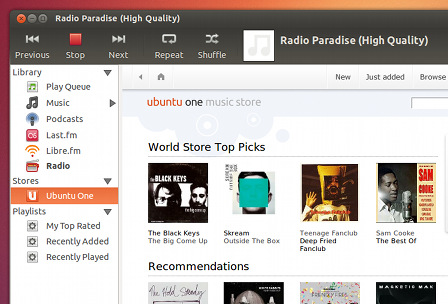
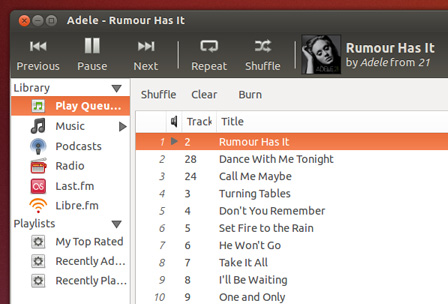
- Add updated music slide.   - Add Raring Ringtail welcome graphic.

diff --git a/slideshows/ubuntu/slides/music.html b/slideshows/ubuntu/slides/music.html
@@ -1,29 +1,26 @@
-<div class="header"><h1 class="slidetitle">All the music you need</h1></div>
+<div class="header"><h1 class="slidetitle">Take your music with you</h1></div>
 
 <div class="main">
 
 <div class="text">
 
 <div>
-<p>Ubuntu comes with Rhythmbox, for organising and playing your music. Compatible with all common portable music players, it includes the Ubuntu Music Store, so you can find new music in seconds.</p>
+<p>Ubuntu comes with the amazing Rhythmbox music player. With advanced playback options, it's simple to queue up the perfect songs. And it works great with CDs and portable music players, so you can enjoy all your music wherever you go.</p>
 </div>
 
 <div class="featured">
 <h2 class="subtitle">Included software</h2>
 <ul>
 	<li>
-	<img class="icon" src="icons/rhythmbox.png" />
+	<img class="icon" src="icons/rhythmbox.png">
 	<p class="caption">Rhythmbox Music Player</p>
-	</li>
-	<li>
-	<img class="icon" src="icons/ubuntuone.png" />
-	<p class="caption">Ubuntu One Music Store</p>
 	</li>
 </ul>
 </div>
 
 </div>
 
-<img class="screenshot" src="screenshots/music.jpg" />
+<img class="screenshot" src="screenshots/music.jpg">
 
+</div></div>
 </div>
